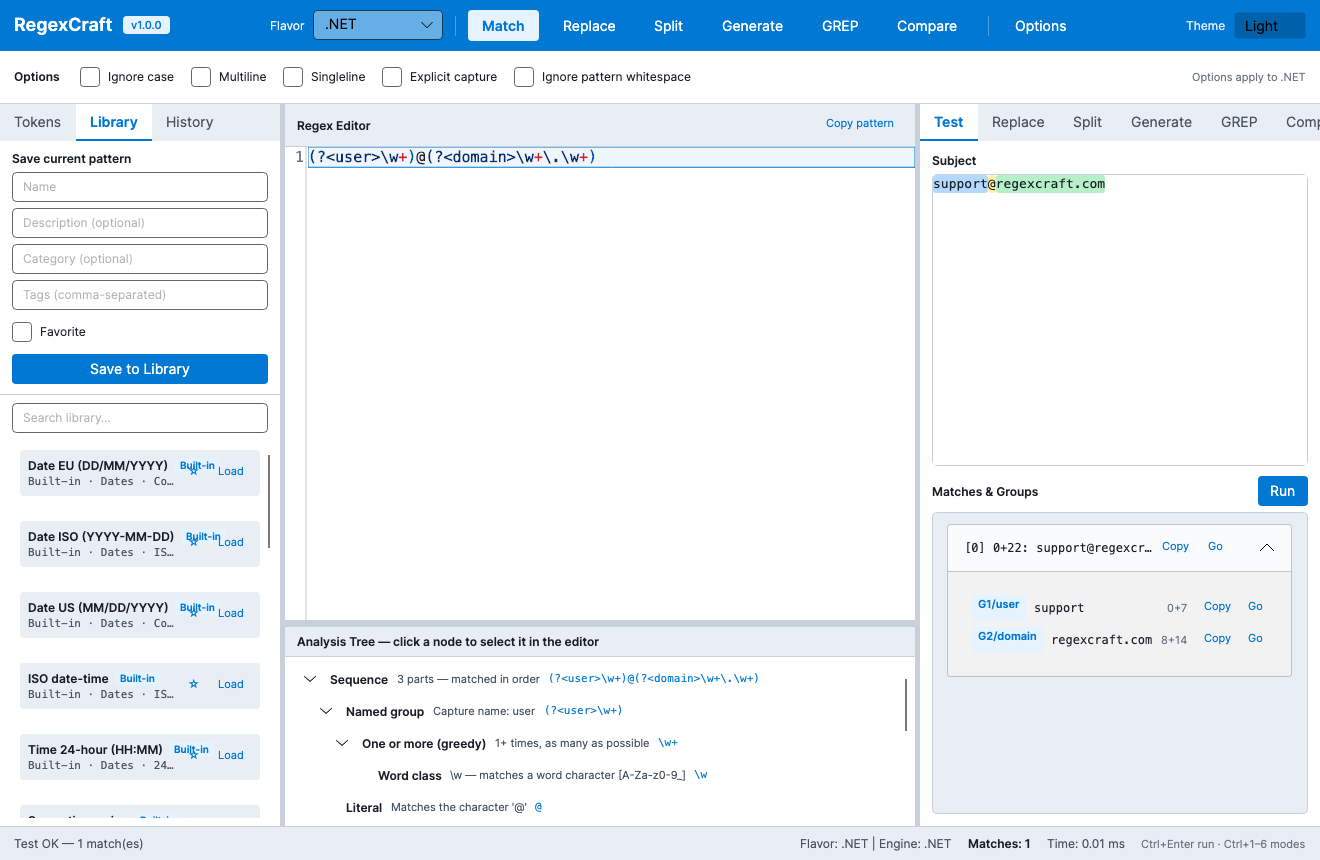
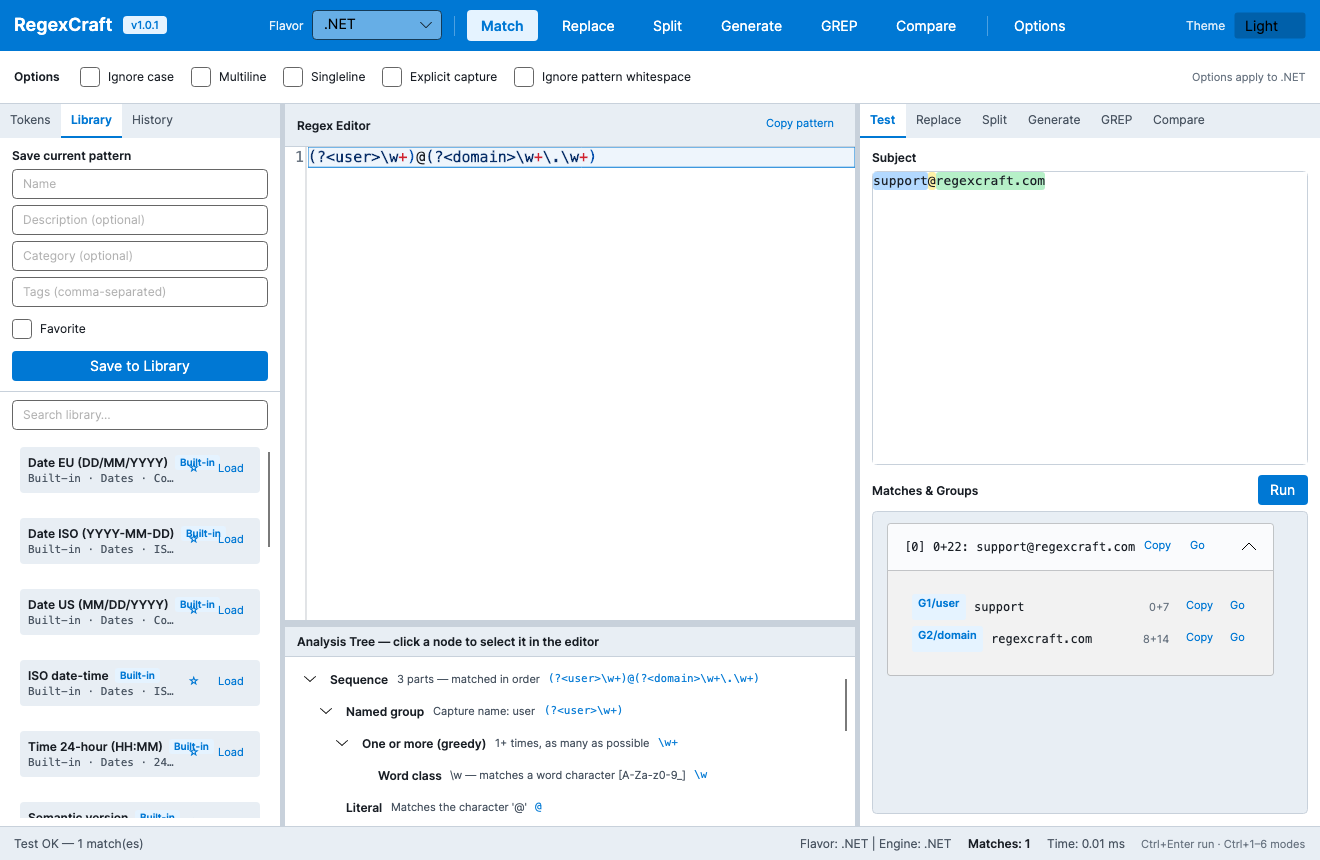
Polish Compare layout and stop clipping mode tab labels
On Compare: narrow left sidebar, hide analysis tree, pattern-only center strip, star-sized right panel with UniformGrid cards. Mode tabs use a horizontal ScrollViewer and slightly tighter padding so "Compare" is never clipped to "Comp".

diff --git a/src/RegexCraft.Core/Settings/LayoutDefaults.cs b/src/RegexCraft.Core/Settings/LayoutDefaults.cs
@@ -9,57 +9,63 @@ public static class LayoutDefaults
     /// <summary>Default left sidebar (Tokens / Library / History) width in px.</summary>
     public const double LeftSidebarWidth = 280;
 
-    /// <summary>Default right panel width for Test / Replace / Split / Generate / GREP.</summary>
-    public const double RightPanelNormalDefault = 400;
+    /// <summary>
+    /// Default right panel width for Test / Replace / Split / Generate / GREP.
+    /// Wide enough that the six mode tabs (including full "Compare") usually fit without scrolling.
+    /// </summary>
+    public const double RightPanelNormalDefault = 460;
 
     /// <summary>
     /// Fallback absolute Compare width when window size is unknown (tests / first layout).
     /// Prefer <see cref="ResolveCompareWidth"/> with live body width.
     /// </summary>
-    public const double RightPanelCompareDefault = 780;
+    public const double RightPanelCompareDefault = 860;
 
     /// <summary>Hard minimum for the right panel (matches MainWindow MinWidth on host).</summary>
-    public const double RightPanelMin = 300;
+    public const double RightPanelMin = 320;
 
     /// <summary>
     /// Minimum usable Compare width. Stored values below this are treated as stale
-    /// (e.g. from the old ~520px default) and re-expanded.
+    /// and re-expanded.
     /// </summary>
-    public const double RightPanelCompareMin = 640;
+    public const double RightPanelCompareMin = 700;
 
     /// <summary>
-    /// When Compare is active, the center (editor + analysis) column is fixed to this
-    /// width so the right panel can take the rest of the body (star).
+    /// When Compare is active, the center column is a pattern-only strip of this width
+    /// (analysis tree is hidden) so the right panel can claim the rest.
     /// </summary>
-    public const double CenterWidthWhenCompare = 280;
+    public const double CenterWidthWhenCompare = 240;
 
-    /// <summary>Floor for the center column while Compare is active (still readable).</summary>
-    public const double CenterMinWhenCompare = 200;
+    /// <summary>Floor for the center column while Compare is active.</summary>
+    public const double CenterMinWhenCompare = 180;
 
     /// <summary>
-    /// Fraction of the body width (left sidebar excluded) that Compare should claim
+    /// When Compare is active, shrink the left sidebar to this width so cards get more room.
+    /// </summary>
+    public const double LeftSidebarWidthWhenCompare = 200;
+
+    /// <summary>
+    /// Fraction of the body width (after left sidebar) that Compare should claim
     /// when applying an absolute pixel fallback.
     /// </summary>
-    public const double CompareShareOfBody = 0.72;
+    public const double CompareShareOfBody = 0.78;
 
     /// <summary>Upper clamp for remembered Normal widths.</summary>
     public const double RightPanelNormalMax = 900;
 
     /// <summary>Upper clamp for remembered Compare widths (large monitors).</summary>
-    public const double RightPanelCompareMax = 1600;
+    public const double RightPanelCompareMax = 1800;
 
     /// <summary>Clamp a Normal-mode width to the allowed range.</summary>
     public static double ClampNormal(double width) =>
         Math.Clamp(width, RightPanelMin, RightPanelNormalMax);
 
-    /// <summary>
-    /// Clamp a Compare-mode absolute width.
-    /// </summary>
+    /// <summary>Clamp a Compare-mode absolute width.</summary>
     public static double ClampCompare(double width) =>
         Math.Clamp(width, RightPanelCompareMin, RightPanelCompareMax);
 
     /// <summary>
-    /// Whether a stored Compare width is large enough to honor (not a pre-1.0.1 small default).
+    /// Whether a stored Compare width is large enough to honor.
     /// </summary>
     public static bool IsUsableCompareWidth(double? stored) =>
         stored is >= RightPanelCompareMin;
@@ -75,25 +81,22 @@ public static class LayoutDefaults
 
     /// <summary>
     /// Resolve the preferred absolute Compare right-panel width from the live body width.
-    /// Used when star layout is not applied, or to seed remembered widths.
     /// </summary>
     /// <param name="bodyWidth">Full main body grid width (includes left sidebar).</param>
     /// <param name="storedCompare">Optional user-remembered Compare width.</param>
     public static double ResolveCompareWidth(double bodyWidth, double? storedCompare)
     {
-        // Content row after left sidebar + two splitters (~5+5).
-        var contentWidth = bodyWidth > LeftSidebarWidth + 20
-            ? bodyWidth - LeftSidebarWidth - 10
-            : Math.Max(bodyWidth * 0.75, RightPanelCompareDefault);
+        var left = LeftSidebarWidthWhenCompare;
+        var contentWidth = bodyWidth > left + 20
+            ? bodyWidth - left - 10
+            : Math.Max(bodyWidth * 0.8, RightPanelCompareDefault);
 
         var preferred = contentWidth * CompareShareOfBody;
-        // Leave a thin strip for the editor so the pattern remains visible.
         var maxForRight = Math.Max(RightPanelCompareMin, contentWidth - CenterMinWhenCompare);
         preferred = Math.Clamp(preferred, RightPanelCompareMin, maxForRight);
 
         if (IsUsableCompareWidth(storedCompare))
         {
-            // Honor a user drag, but never collapse below the share floor for this window.
             var floor = Math.Min(preferred, maxForRight);
             return Math.Clamp(storedCompare!.Value, floor * 0.9, maxForRight);
         }

diff --git a/src/RegexCraft.App/Views/MainWindow.axaml.cs b/src/RegexCraft.App/Views/MainWindow.axaml.cs
@@ -146,8 +146,9 @@ public partial class MainWindow : Window
 
     /// <summary>
     /// Apply Normal vs Compare column layout.
-    /// Compare: center column shrinks to a fixed strip; right panel takes the remaining star space
-    /// (most of the former editor area). Normal: center is star; right is absolute remembered width.
+    /// Compare: left sidebar narrows, analysis is hidden, center is a pattern-only strip,
+    /// and the right panel takes the remaining star space (most of the window).
+    /// Normal: left + center + absolute remembered right width.
     /// </summary>
     private void ApplyRightPanelWidthFromSettings()
     {
@@ -159,40 +160,28 @@ public partial class MainWindow : Window
         {
             if (_vm.IsCompareTab)
             {
-                // Center (editor + analysis) collapses to a narrow strip; right fills the rest.
+                // Narrow the left sidebar so cards get more horizontal room.
+                cols[0].Width = new GridLength(LayoutDefaults.LeftSidebarWidthWhenCompare, GridUnitType.Pixel);
+                cols[0].MinWidth = 160;
+
+                // Pattern-only strip (analysis rows collapsed below).
                 cols[2].Width = new GridLength(LayoutDefaults.CenterWidthWhenCompare, GridUnitType.Pixel);
                 cols[2].MinWidth = LayoutDefaults.CenterMinWhenCompare;
 
-                // Prefer star so Compare always claims residual space after left + center.
-                // If the user previously dragged a usable absolute Compare width, honor it
-                // only when it is still a majority of the body (otherwise re-expand).
-                var body = MainBodyGrid.Bounds.Width;
-                if (body <= 0)
-                    body = Bounds.Width > 0 ? Bounds.Width : 1320;
-
-                var target = _vm.GetTargetRightPanelWidth(compareMode: true, bodyWidth: body);
-                var content = Math.Max(body - LayoutDefaults.LeftSidebarWidth - 10, target);
-                var majority = content * LayoutDefaults.CompareShareOfBody;
-
-                if (LayoutDefaults.IsUsableCompareWidth(_vm.LoadedSettings.RightPanelCompareWidth)
-                    && _vm.LoadedSettings.RightPanelCompareWidth >= majority * 0.85)
-                {
-                    cols[4].Width = new GridLength(
-                        LayoutDefaults.ClampCompare(_vm.LoadedSettings.RightPanelCompareWidth!.Value),
-                        GridUnitType.Pixel);
-                }
-                else
-                {
-                    cols[4].Width = new GridLength(1, GridUnitType.Star);
-                }
-
+                // Always star: guaranteed majority of remaining body for Compare cards.
+                cols[4].Width = new GridLength(1, GridUnitType.Star);
                 cols[4].MinWidth = LayoutDefaults.RightPanelCompareMin;
                 if (RightPanelHost is not null)
                     RightPanelHost.MinWidth = LayoutDefaults.RightPanelCompareMin;
+
+                CollapseAnalysisRows(collapse: true);
             }
             else
             {
-                // Restore flexible editor + fixed Normal right width.
+                // Restore default three-column proportions.
+                cols[0].Width = new GridLength(LayoutDefaults.LeftSidebarWidth, GridUnitType.Pixel);
+                cols[0].MinWidth = 200;
+
                 cols[2].Width = new GridLength(1, GridUnitType.Star);
                 cols[2].MinWidth = 280;
 
@@ -201,11 +190,36 @@ public partial class MainWindow : Window
                 cols[4].MinWidth = LayoutDefaults.RightPanelMin;
                 if (RightPanelHost is not null)
                     RightPanelHost.MinWidth = LayoutDefaults.RightPanelMin;
+
+                CollapseAnalysisRows(collapse: false);
             }
         }
         finally
         {
             _applyingRightPanelWidth = false;
+        }
+    }
+
+    /// <summary>
+    /// Zero out the analysis tree rows while Compare is active so the pattern editor
+    /// can use the full center strip height (analysis is not useful during multi-flavor compare).
+    /// </summary>
+    private void CollapseAnalysisRows(bool collapse)
+    {
+        if (CenterColumnGrid?.RowDefinitions is not { Count: >= 3 } rows)
+            return;
+
+        if (collapse)
+        {
+            rows[1].Height = new GridLength(0);
+            rows[2].Height = new GridLength(0);
+            rows[2].MinHeight = 0;
+        }
+        else
+        {
+            rows[1].Height = new GridLength(5);
+            rows[2].Height = new GridLength(200);
+            rows[2].MinHeight = 100;
         }
     }
 

diff --git a/tests/RegexCraft.Tests/Settings/LayoutDefaultsTests.cs b/tests/RegexCraft.Tests/Settings/LayoutDefaultsTests.cs
@@ -19,24 +19,24 @@ public sealed class LayoutDefaultsTests
     {
         var w = LayoutDefaults.ResolveRightPanelWidth(compareMode: false, storedNormal: null, storedCompare: null);
         Assert.That(w, Is.EqualTo(LayoutDefaults.RightPanelNormalDefault));
+        // Wide enough for six mode tabs including full "Compare" label
+        Assert.That(w, Is.GreaterThanOrEqualTo(440));
     }
 
     [Test]
     public void ResolveCompareWidth_TakesMajorityOfBody()
     {
-        // Typical 1320 window body ≈ full width of MainBodyGrid
         const double body = 1320;
         var w = LayoutDefaults.ResolveCompareWidth(body, storedCompare: null);
-        var content = body - LayoutDefaults.LeftSidebarWidth - 10;
+        var content = body - LayoutDefaults.LeftSidebarWidthWhenCompare - 10;
         Assert.That(w, Is.EqualTo(content * LayoutDefaults.CompareShareOfBody).Within(1));
-        Assert.That(w, Is.GreaterThan(content * 0.6), "Compare must take most of the content row");
+        Assert.That(w, Is.GreaterThan(content * 0.7), "Compare must take most of the content row");
         Assert.That(w, Is.GreaterThanOrEqualTo(LayoutDefaults.RightPanelCompareMin));
     }
 
     [Test]
     public void ResolveCompareWidth_IgnoresStaleNarrowStoredWidth()
     {
-        // Old 520px default must not stick — expand to the share formula.
         var w = LayoutDefaults.ResolveCompareWidth(1320, storedCompare: 520);
         Assert.That(w, Is.GreaterThanOrEqualTo(LayoutDefaults.RightPanelCompareMin));
         Assert.That(w, Is.GreaterThan(520));
@@ -46,15 +46,15 @@ public sealed class LayoutDefaultsTests
     [Test]
     public void ResolveCompareWidth_HonorsLargeUserDrag()
     {
-        var w = LayoutDefaults.ResolveCompareWidth(1400, storedCompare: 900);
-        Assert.That(w, Is.InRange(800, 1100));
+        var w = LayoutDefaults.ResolveCompareWidth(1600, storedCompare: 1000);
+        Assert.That(w, Is.InRange(900, 1200));
     }
 
     [Test]
     public void ResolveRightPanelWidth_Compare_UsesBodyWhenProvided()
     {
         var w = LayoutDefaults.ResolveRightPanelWidth(true, null, null, bodyWidth: 1320);
-        Assert.That(w, Is.GreaterThan(700));
+        Assert.That(w, Is.GreaterThan(800));
     }
 
     [Test]
@@ -69,7 +69,7 @@ public sealed class LayoutDefaultsTests
     public void ClampCompare_UsesCompareMinimum()
     {
         Assert.That(LayoutDefaults.ClampCompare(200), Is.EqualTo(LayoutDefaults.RightPanelCompareMin));
-        Assert.That(LayoutDefaults.ClampCompare(800), Is.EqualTo(800));
+        Assert.That(LayoutDefaults.ClampCompare(900), Is.EqualTo(900));
         Assert.That(LayoutDefaults.ClampCompare(5000), Is.EqualTo(LayoutDefaults.RightPanelCompareMax));
     }
 }

diff --git a/tests/RegexCraft.Tests/ViewModels/MainWindowViewModelExpandedTests.cs b/tests/RegexCraft.Tests/ViewModels/MainWindowViewModelExpandedTests.cs
@@ -134,12 +134,12 @@ public sealed class MainWindowViewModelExpandedTests
     {
         var vm = CreateVm(new AppSettings
         {
-            RightPanelNormalWidth = 360,
-            RightPanelCompareWidth = 900,
+            RightPanelNormalWidth = 380,
+            RightPanelCompareWidth = 950,
         });
-        Assert.That(vm.GetTargetRightPanelWidth(false), Is.EqualTo(360));
+        Assert.That(vm.GetTargetRightPanelWidth(false), Is.EqualTo(380));
         // Large stored Compare width is usable
-        Assert.That(vm.GetTargetRightPanelWidth(true), Is.EqualTo(900));
+        Assert.That(vm.GetTargetRightPanelWidth(true), Is.EqualTo(950));
     }
 
     [Test]
@@ -150,31 +150,31 @@ public sealed class MainWindowViewModelExpandedTests
             RightPanelNormalWidth = 400,
             RightPanelCompareWidth = 520, // old default — not usable
         });
-        Assert.That(vm.GetTargetRightPanelWidth(true, bodyWidth: 1320), Is.GreaterThan(700));
+        Assert.That(vm.GetTargetRightPanelWidth(true, bodyWidth: 1320), Is.GreaterThan(800));
     }
 
     [Test]
     public void RememberRightPanelWidth_PersistsSeparately_AndSurvivesReload()
     {
         var vm = CreateVm();
-        vm.RememberRightPanelWidth(370, compareMode: false);
-        vm.RememberRightPanelWidth(850, compareMode: true);
+        vm.RememberRightPanelWidth(380, compareMode: false);
+        vm.RememberRightPanelWidth(920, compareMode: true);
 
         var store = new JsonSettingsStore(Path.Combine(_tempDir, "settings.json"));
         var loaded = store.Load();
-        Assert.That(loaded.RightPanelNormalWidth, Is.EqualTo(370));
-        Assert.That(loaded.RightPanelCompareWidth, Is.EqualTo(850));
+        Assert.That(loaded.RightPanelNormalWidth, Is.EqualTo(380));
+        Assert.That(loaded.RightPanelCompareWidth, Is.EqualTo(920));
 
         var vm2 = CreateVm(); // same settings path via CreateVm without seed reloads file
-        Assert.That(vm2.GetTargetRightPanelWidth(false), Is.EqualTo(370));
-        Assert.That(vm2.GetTargetRightPanelWidth(true), Is.EqualTo(850));
+        Assert.That(vm2.GetTargetRightPanelWidth(false), Is.EqualTo(380));
+        Assert.That(vm2.GetTargetRightPanelWidth(true), Is.EqualTo(920));
     }
 
     [Test]
     public void RememberRightPanelWidth_DoesNotPersistTooNarrowCompare()
     {
         var vm = CreateVm();
-        vm.RememberRightPanelWidth(400, compareMode: true); // below CompareMin
+        vm.RememberRightPanelWidth(500, compareMode: true); // below CompareMin
         var store = new JsonSettingsStore(Path.Combine(_tempDir, "settings.json"));
         Assert.That(store.Load().RightPanelCompareWidth, Is.Null);
     }

diff --git a/tests/RegexCraft.Tests/Headless/MainWindowUiTests.cs b/tests/RegexCraft.Tests/Headless/MainWindowUiTests.cs
@@ -130,23 +130,28 @@ public sealed class MainWindowUiTests
         window.UpdateLayout();
         Dispatcher.UIThread.RunJobs();
 
-        // Compare: center collapses to a fixed strip; right is star (or large absolute).
+        // Compare: left narrows, center is a pattern strip, right is star.
         Assert.That(vm.IsCompareTab, Is.True);
+        Assert.That(body.ColumnDefinitions[0].Width.IsAbsolute, Is.True);
+        Assert.That(body.ColumnDefinitions[0].Width.Value,
+            Is.EqualTo(RegexCraft.Core.Settings.LayoutDefaults.LeftSidebarWidthWhenCompare).Within(1));
         Assert.That(body.ColumnDefinitions[2].Width.IsAbsolute, Is.True,
             "center should shrink to a fixed strip in Compare");
         Assert.That(body.ColumnDefinitions[2].Width.Value,
             Is.EqualTo(RegexCraft.Core.Settings.LayoutDefaults.CenterWidthWhenCompare).Within(1));
-        Assert.That(
-            body.ColumnDefinitions[4].Width.IsStar
-            || body.ColumnDefinitions[4].Width.Value > normalRight + 100,
-            "right panel should expand to take most of the body in Compare");
+        Assert.That(body.ColumnDefinitions[4].Width.IsStar, Is.True,
+            "right panel should be star and claim residual body width in Compare");
+
+        var analysis = window.FindControl<Avalonia.Controls.Border>("AnalysisPanel");
+        Assert.That(analysis, Is.Not.Null);
+        Assert.That(analysis!.IsVisible, Is.False, "analysis tree should hide during Compare");
 
         var rightHost = window.FindControl<Avalonia.Controls.Border>("RightPanelHost");
         Assert.That(rightHost, Is.Not.Null);
         if (rightHost!.Bounds.Width > 0 && body.Bounds.Width > 0)
         {
             var share = rightHost.Bounds.Width / body.Bounds.Width;
-            Assert.That(share, Is.GreaterThan(0.45),
+            Assert.That(share, Is.GreaterThan(0.5),
                 $"Compare right host should dominate body (share={share:F2})");
         }
 
@@ -155,9 +160,12 @@ public sealed class MainWindowUiTests
         window.UpdateLayout();
         Dispatcher.UIThread.RunJobs();
 
+        Assert.That(body.ColumnDefinitions[0].Width.Value,
+            Is.EqualTo(RegexCraft.Core.Settings.LayoutDefaults.LeftSidebarWidth).Within(1));
         Assert.That(body.ColumnDefinitions[2].Width.IsStar, Is.True, "center star restored");
         Assert.That(body.ColumnDefinitions[4].Width.IsAbsolute, Is.True, "normal absolute right restored");
         Assert.That(body.ColumnDefinitions[4].Width.Value, Is.EqualTo(normalRight).Within(2));
+        Assert.That(analysis.IsVisible, Is.True, "analysis tree restored");
 
         window.Close();
     }

diff --git a/docs/user/comparing.md b/docs/user/comparing.md
@@ -43,14 +43,16 @@ Approximate flavors (Python, Go, Rust, …) still run on the closest real engine
 
 ## Layout (right panel width)
 
-Compare needs far more horizontal space than Match or Replace. When you open **Compare**, the right panel **takes most of the editor area** (the center editor shrinks to a narrow strip so the pattern stays visible). When you switch to any other mode, the previous Normal layout is restored.
+Compare needs far more horizontal space than Match or Replace. When you open **Compare**:
 
-| Mode | Behavior |
-|------|----------|
-| **Compare** | Right panel expands to ~70%+ of the body (star layout); multi-flavor cards wrap |
-| **Other modes** | Restores your previous Normal right-panel width (Test / Replace / Split / Generate / GREP) |
+- The **right panel expands** to fill most of the window (star layout)
+- The **center** becomes a narrow pattern-only strip (analysis tree is hidden while comparing)
+- The **left sidebar** narrows slightly so cards get more room
+- Result cards sit in a **2-column grid** that fills the panel
 
-Drag the splitter between the center editor and the right panel to fine-tune. Your Normal width and a usable Compare width are saved with the rest of the app settings.
+When you switch to any other mode, the previous Normal layout is restored (full analysis tree, wider editor, remembered right-panel width).
+
+The mode tabs (Test … Compare) scroll horizontally if the panel is narrow so labels are never clipped.
 
 ## Tips
 
